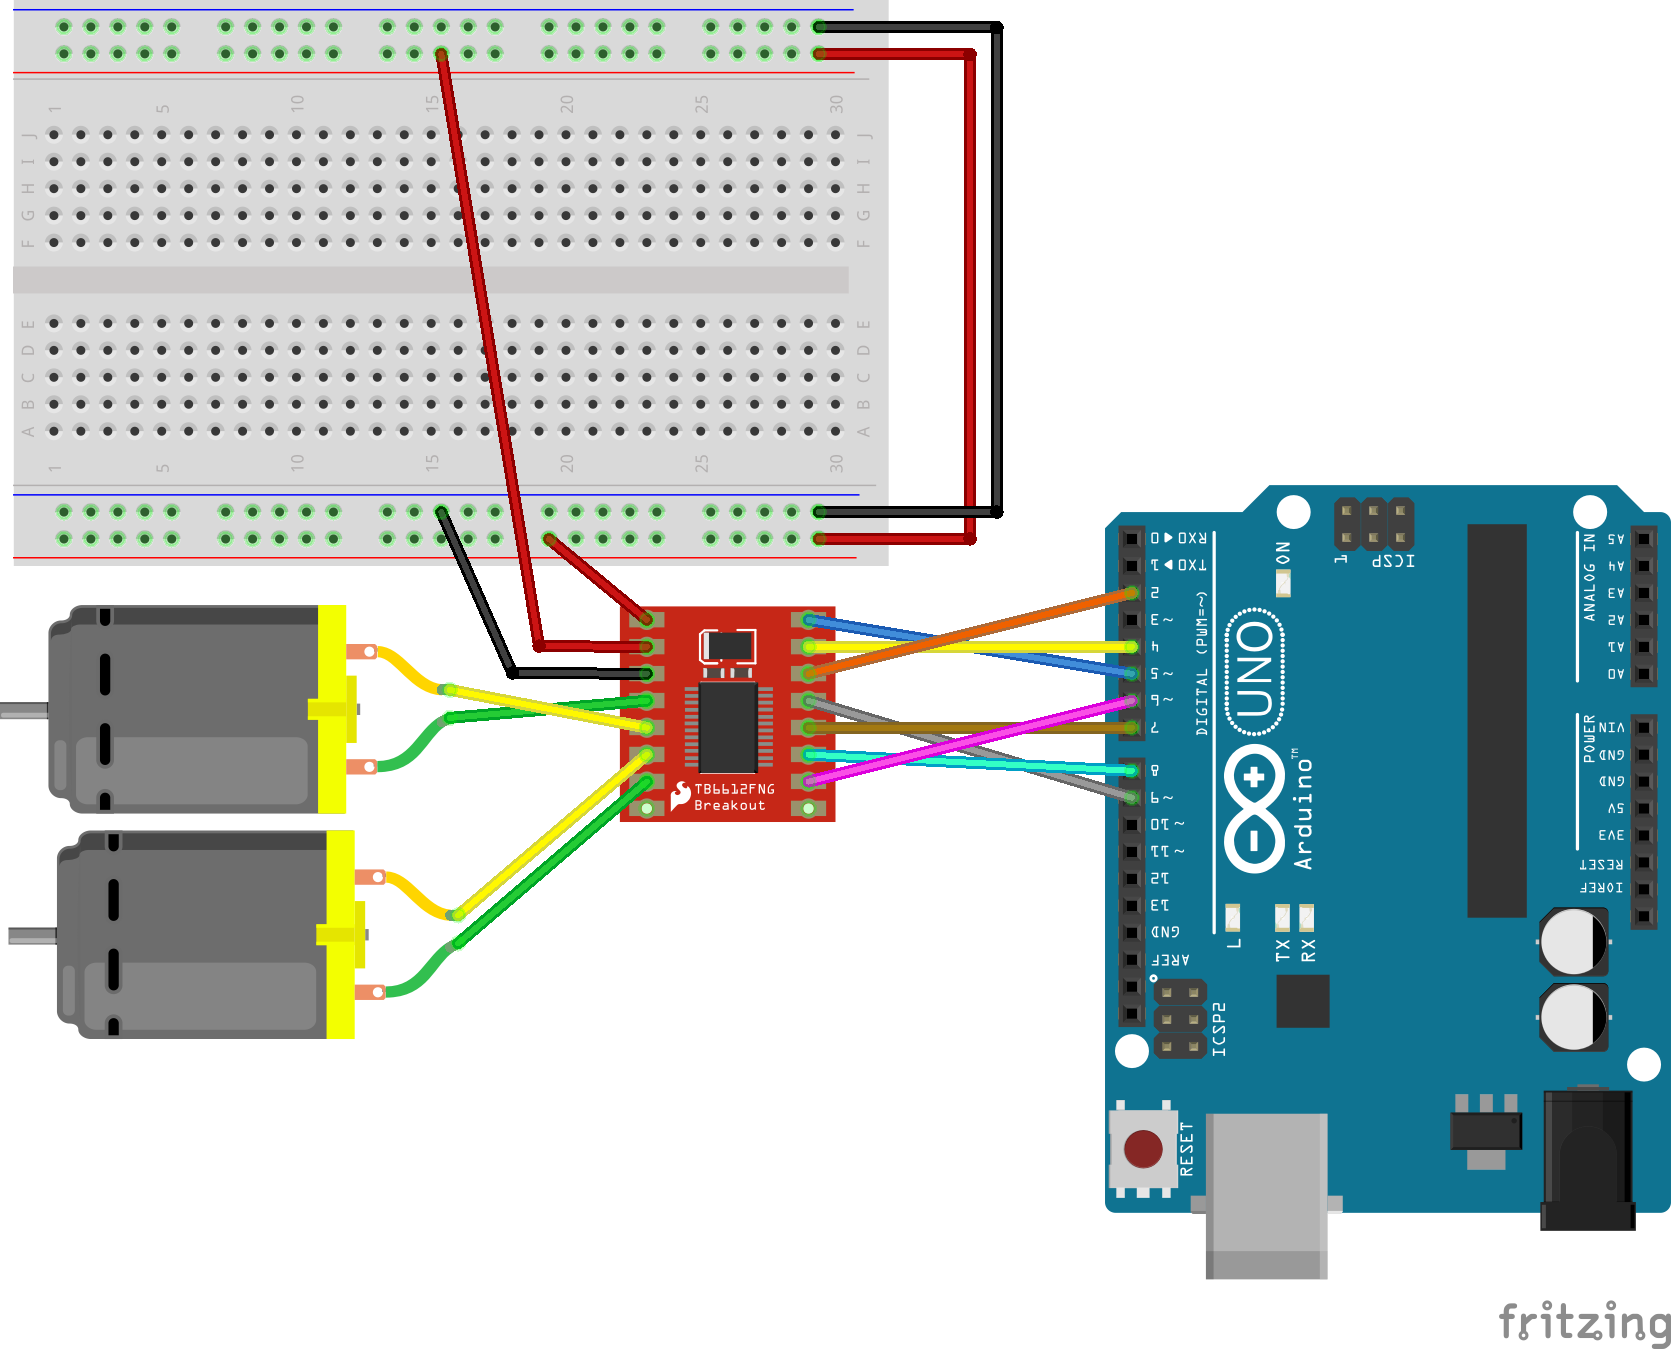
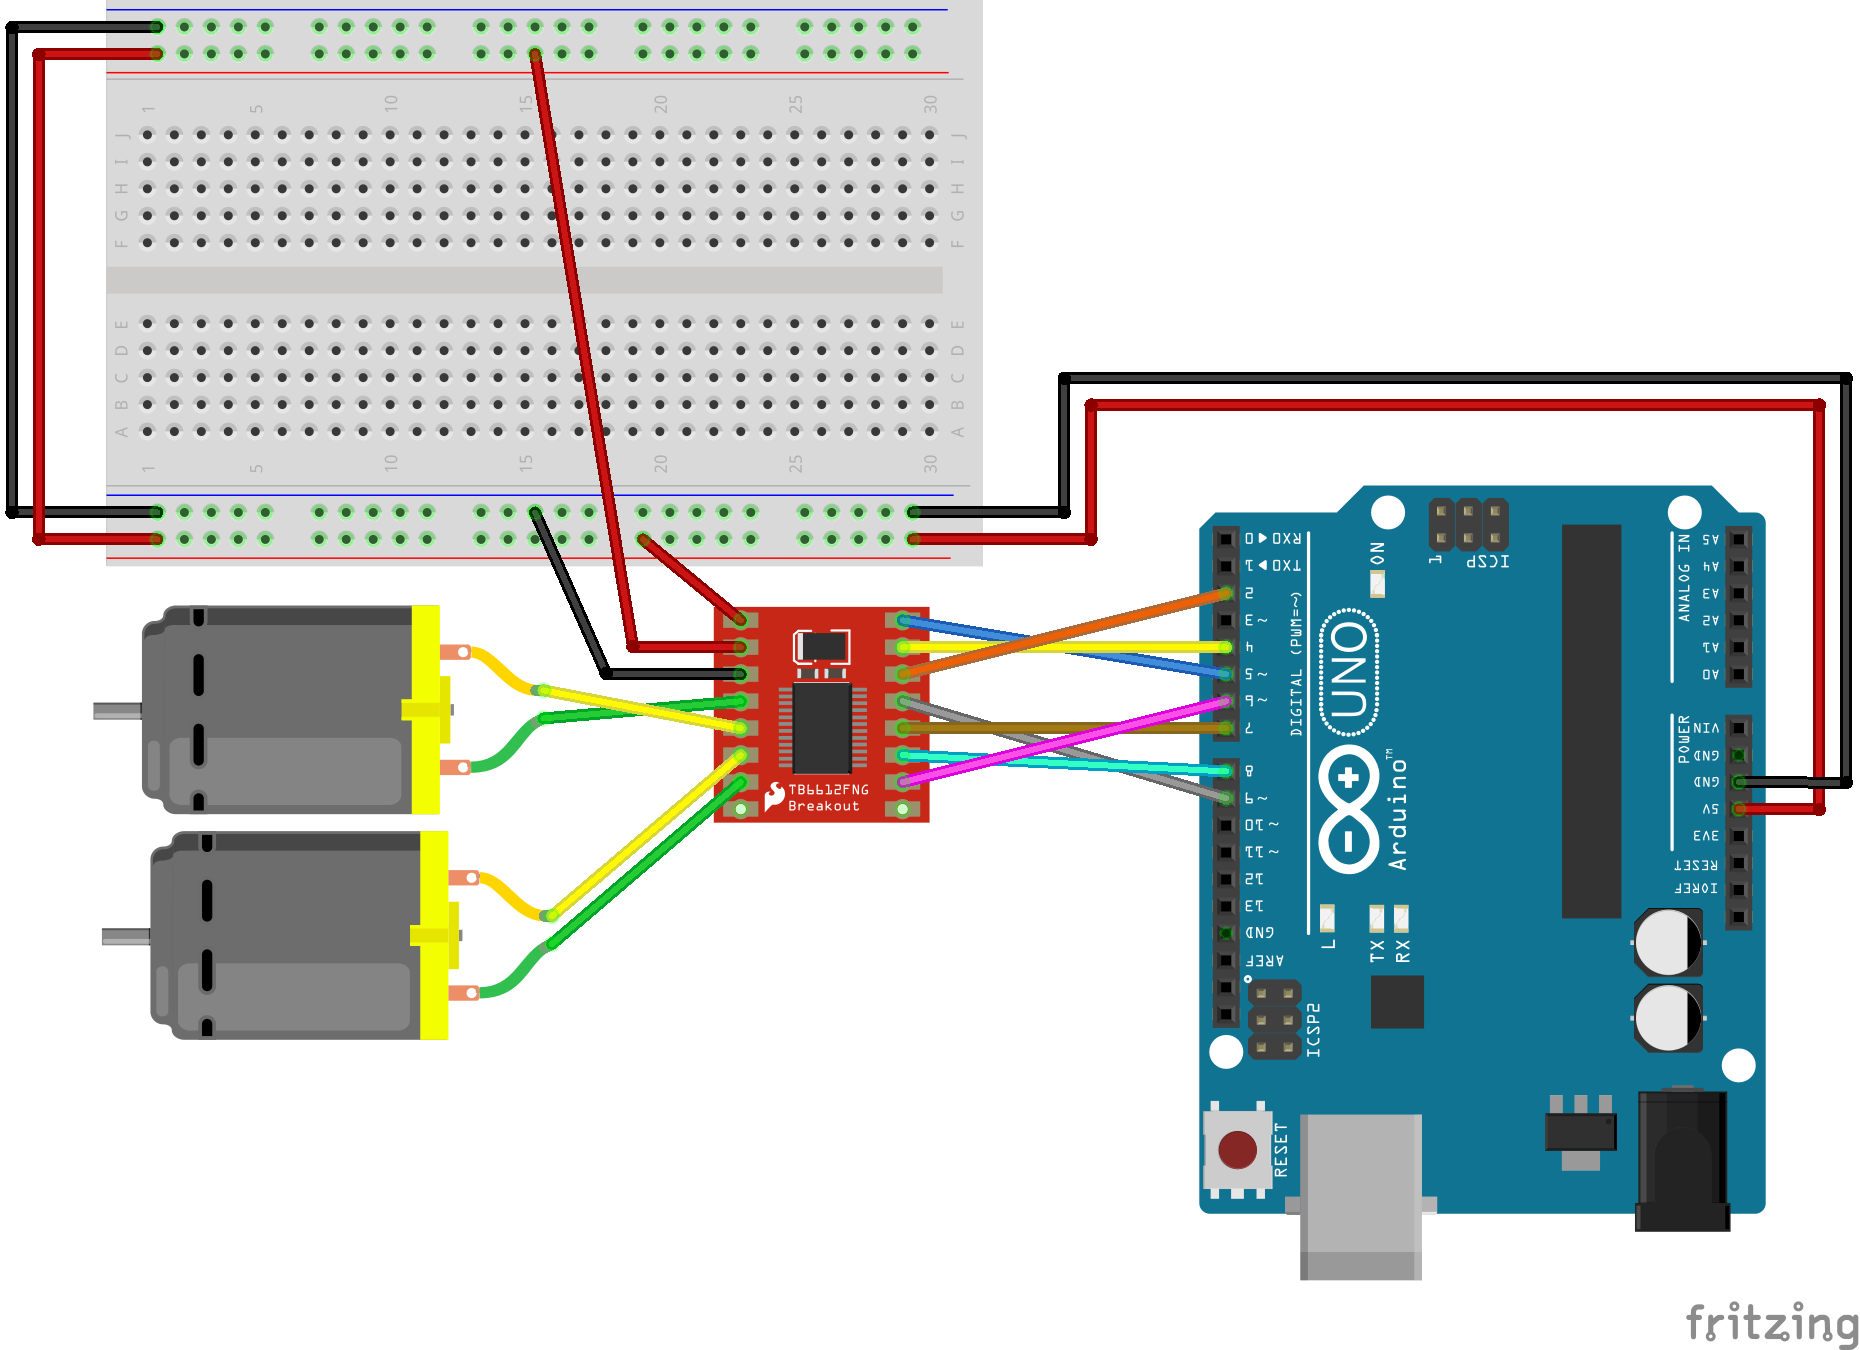
w10

diff --git a/week10/readme.md b/week10/readme.md
@@ -1,0 +1,31 @@
+# week10
+
+## Announcements
+
+## Relevant work
+
++ [Morehshin Allahyari](http://www.morehshin.com/)
+	+ [MATERIAL SPECULATION: ISIS (2015-2016)](http://www.morehshin.com/material-speculation-isis/)
+		+ [AJ+ video](https://www.youtube.com/watch?v=NL6e-kEkur0)
+		+ [further reading](http://www.digiart21.org/art/material-speculation-isis)
+
+## Tuesday
+
++ Sending multiple values over serial
++ Discuss final project
++ Some questions to get you thinking
+	+ What work have we looked at this semester that you find particularly interesting or inspiring? Why do you find it to be interesting or inspiring?
+	+ What technical aspects have excited you in this course? Is it programming? Is it fabrication? Is it electronics? What sort of project would allow you to practice that skillset?
+	+ Given the state of the world, what sort of art/culture would you opt to produce and why? Borrowing from Hito Steyerl, what does it mean to make art in the age of planetary civil war?
+
+## Thursday
+
++ Review 3d printed/laser cut projects
+
+## Homework
+
++ Write a final project proposal due Thursday, include
+	+ 100-250 word conceptual description of the project
+	+ 100-250 word technical description of the project
+	+ A rough sketch of the project idea
+	+ A materials/parts list for the project

diff --git a/learning-modules/robo-car/readme.md b/learning-modules/robo-car/readme.md
@@ -8,13 +8,15 @@ You will need:
 + A pair of "hobby" motors, which are DC motors geared to turn more slowly but with more torque. I am using [140 RPM motors from Sparkfun](https://www.sparkfun.com/products/13302)
 + A pair of wheels that attach to said motors. These can be digitally fabricated, or you can use [these wheels from Sparkfun](https://www.sparkfun.com/products/13259)
 
-## Guide
+## Wiring
 
 We will use the [official hookup guide from Sparkfun](https://learn.sparkfun.com/tutorials/tb6612fng-hookup-guide) which is fairly complete, but makes use of a different Arduino than we have been working with. I will add some clarity on the matter below.
 
 Modified wiring guide to suit Arduino Uno R3:
 
 ![Modified wiring guide to suit Arduino Uno R3](wiring1.png)
+
+## Code
 
 ```c
 /******************************************************************************
@@ -111,3 +113,7 @@ void loop()
 
 }
 ```
+
+## Fabrication
+
+Many people choose to use [chassis kits](https://www.intorobotics.com/a-list-of-the-best-arduino-robot-car-kits/) to mount the motors, wheels, Arduino, and so on. In this class we will use some very rudimentary materials do construct a DIY robot chassis.
